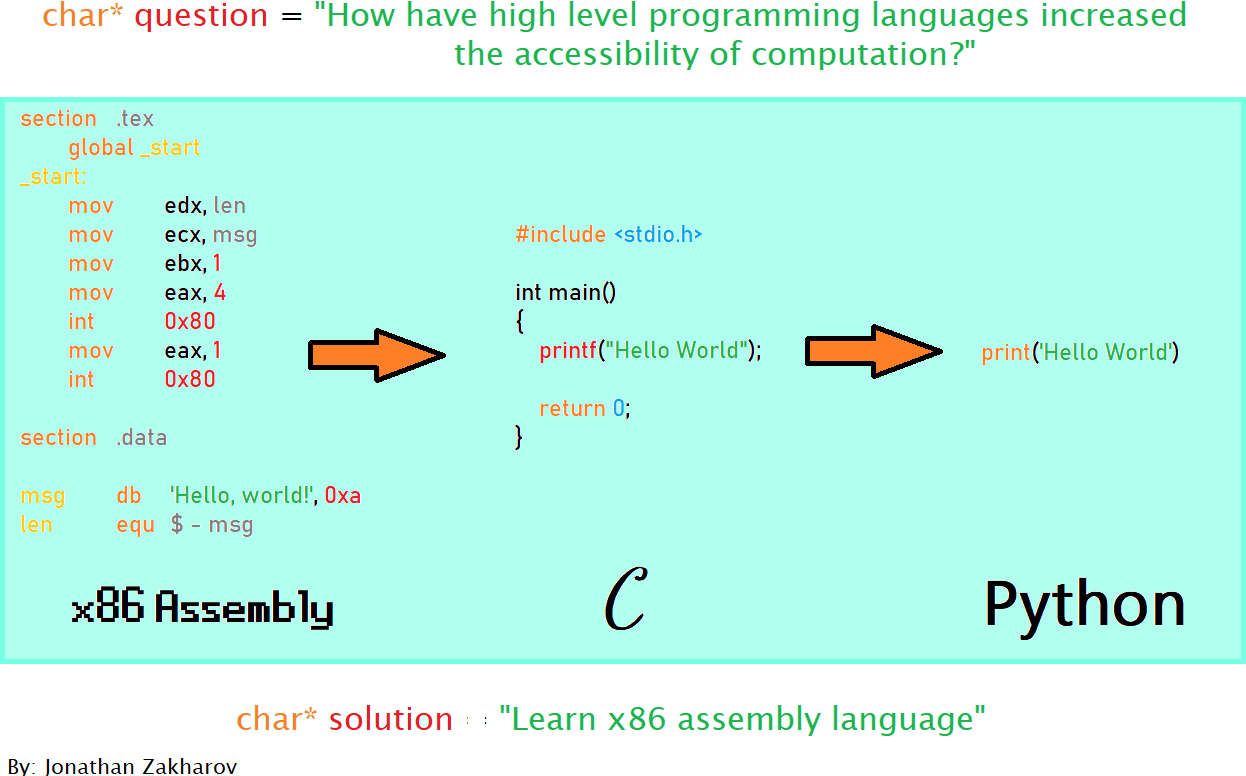
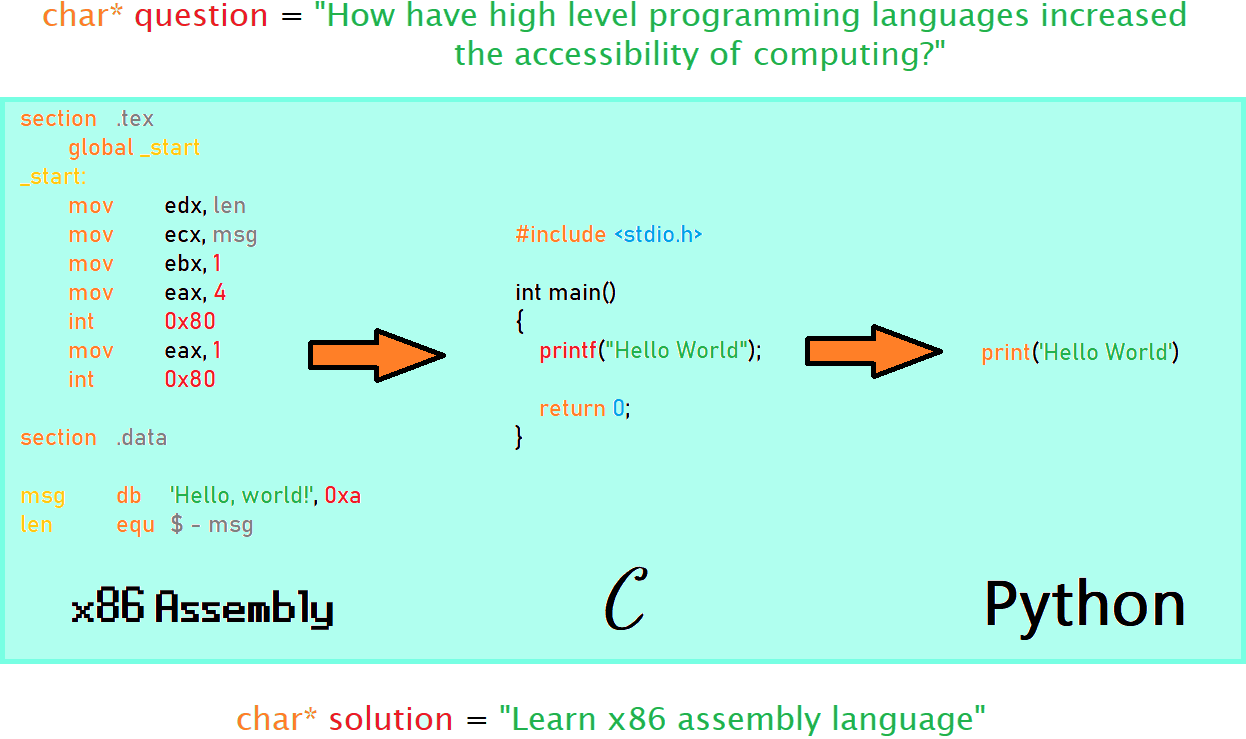
Updated Body Paragraphs

diff --git a/project.html b/project.html
@@ -31,14 +31,11 @@
     <div id="text">
         <p>
             <b>I'm going to learn x86-64 assembly language.</b> <br><br>
-            I seek to learn first hand high level programming languages’ impact on the accessibility of computer science and programming. 
-            I want to learn not only how high level programming languages have increased the productivity of programmers, 
-            but how the abstraction of numerous low level technicalities have enabled those who otherwise would not or could not start programming as a hobby, outlet, or career.<br><br>
 
-            I will accomplish this through the aid of my own project: to learn the very technicalities that high level languages abstract. 
+            I will answer my question by learning the very technicalities that high level languages and other technologies abstract. 
             In learning x86-64 assembly, I will gain an understanding of some of the underlying complexities high level languages,
-            compilers, and other software abstract from the programmer to better understand how far computing has come, 
-            appreciate those that have enabled it, and how it has made programming more widely accessible.
+            compilers, and other software abstract from most modern programmers to better understand how far computing has come, 
+            appreciate those that have contributed to it, and learn how they have made programming more widely accessible.
         </p>
     </div>
 

diff --git a/style.css b/style.css
@@ -1,3 +1,5 @@
+
+
 *{
     margin: 0;
     padding: 0;
@@ -13,18 +15,27 @@ a:hover             { text-decoration: none;    color:black; }
 a:focus             { text-decoration: none;    color:black; }
 a:hover, a:active   { text-decoration: none;    color:black; }
 
-.main{
+/*all images*/
+img
+{
     width: 100%;
-    height: 100%;
+}
+
+/*everything outside nav*/
+.main
+{
+    width: 100%;
 
     padding-top: 50px;
 
     position: absolute;
     overflow: hidden;
     
-    /*background: linear-gradient(135deg, #ff0000, #cc00ff, #0000ff, #00ffff, #00ff00, #ffff00, #ff0000)*/
+    /*graphic design is my passion
+    background: linear-gradient(135deg, #ff0000, #cc00ff, #0000ff, #00ffff, #00ff00, #ffff00, #ff0000);*/
 }
 
+/*Heading*/
 .main h1
 {
     margin-right: 60%;
@@ -32,12 +43,7 @@ a:hover, a:active   { text-decoration: none;    color:black; }
     font-size: 250%;
 }
 
-
-img
-{
-    width: 100%;
-}
-
+/*body paragraphs*/
 #text
 {
     line-height: 150%;
@@ -47,6 +53,20 @@ img
     background-color: white;
 }
 
+/*div containing my ASM resources*/
+#research
+{
+    width: 110%;
+}
+
+/*each element under research*/
+#research li
+{
+    margin-bottom: 15px;
+    line-height: 120%;
+}
+
+/*nav*/
 #wrapper
 {
     background-color: #e7e7e7;
@@ -58,14 +78,6 @@ img
 	padding-top: 12px;
     padding-bottom: 12px;
 }
-
-/*
-#menubottom
-{
-    padding-top:1%;
-    background: linear-gradient(180deg, #F8FEFF, #E2FEFF)
-}
-*/
 
 ul#list b
 {   

diff --git a/index.html b/index.html
@@ -37,11 +37,6 @@
             I want to learn not only how high level programming languages have increased the productivity of programmers, 
             but how the abstraction of numerous low level technicalities have enabled those who otherwise would not or could not start programming as a hobby, outlet, or career.<br><br>
 
-            I will accomplish this through the aid of my own project: to learn the very technicalities that high level languages abstract. 
-            In learning x86-64 assembly, I will gain an understanding of some of the underlying complexities high level languages,
-            compilers, and other software abstract from the programmer to better understand how far computing has come, 
-            appreciate those that have enabled it, and how it has made programming more widely accessible. <br><br>
-
             -Jonathan Zakharov
         </p>
 

diff --git a/worklogs.html b/worklogs.html
@@ -30,6 +30,7 @@
 
     <div id="text">
         <b>This is the work I've put in:</b> <br><br>
+        
         <p>I need to date these events, but started watching some lectures and other youtube tutorials as well as reading Jorgensen's textbook.</p>
     </div>
 

diff --git a/research.html b/research.html
@@ -41,7 +41,6 @@
         </div>
     </div>
 
-
 </div>
 
 </html> 
